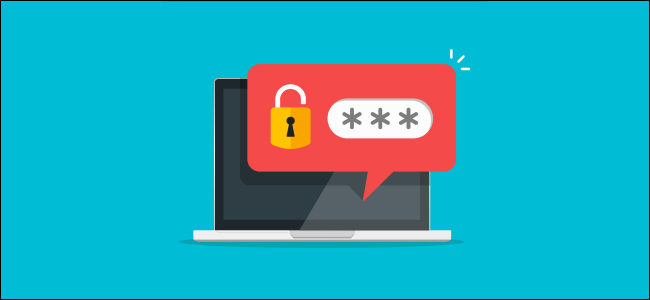
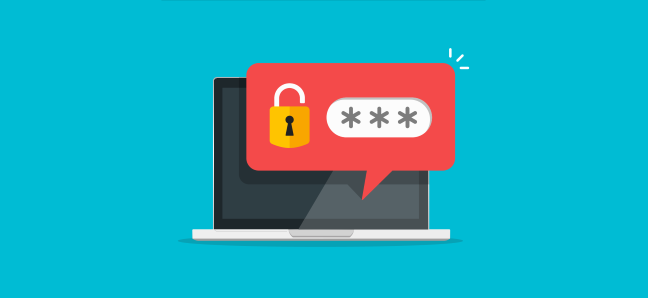
Completed password blog and updated config.yml

diff --git a/blog/Why-Use-Password-Manager/index.html b/blog/Why-Use-Password-Manager/index.html
@@ -23,17 +23,71 @@
     </tbody></table>
     <div id="blog-display">
         <h1 id="blog_title">Why you should REALLY use a password manager.</h1>
-        <img src="https://www.howtogeek.com/wp-content/uploads/2019/11/img_5dcdb2cfe6171.png" style="display:block;margin:0 auto;" class="blog_img">
+        <img src="/images/blog3.png" style="display:block;margin:0 auto;" class="blog_img">
         <p>
             If you were like me, you used the same password for all of your accounts because you can't be bothered to memorize or write down a bunch of different passwords. You probably think why does it matter? I never get hacked.
         </p>
         <p>
-            If you said that to me in person, my reply would be: "You haven't been hacked <i>yet.</i>"
+            If you said that to me in person, my response would be: "You haven't been hacked <i>yet.</i>" Companies get hacked and leak data all the time, <a href="https://en.wikipedia.org/wiki/List_of_data_breaches">even the big ones</a>.
         </p>
         <p>
-            I'll admit though, if you rarely use the internet past the typical big companies like Facebook and Google then the use of a password manager might not be necessary, but for the vast majority a password manager is highly recommended.
+            For those who don't know what a password manager is; it's a software that manages all the credentials you need to login to a site allowing you to keep track of all unique and hard to crack passwords while only having to remember one password.
+            This is all dependent on the fact that <i><b>you pick and use a master password that you have never used before and will never reveal or write down.</b></i> If you stick with a password manager, it should be the last password you'll ever need to remember.
         </p>
-
+        <p>
+            I'll admit though, if you rarely use the internet past the typical big companies like Facebook and Google then the use of a password manager might not be necessary, but for the vast majority a password manager is something I highly recommend. Allow me to illustrate.
+        </p>
+        <p>
+            <img src="/images/blog3.gif" style="display:block;margin:0 auto;" class="blog_img">
+        </p>
+        <p>
+            Lets say Google gets hacked or has its data leaked. You obviously have to change your password for Google and because hackers are smart enough to try your email/password on other websites you have to change the other sites too.
+            Luckily you only use Facebook and Amazon so you change the password to those two accounts and you're perfectly okay.
+        </p>
+        <p>
+            <img src="/images/blog3-1.gif" style="display:block;margin:0 auto;" class="blog_img">
+        </p>
+        <p>
+            Now with more accounts sharing the same password things start to become complicated. If one company gets hacked, you have to change the password of every account in order to make sure all accounts are secure. 
+            Most likely you're going to have a lot more accounts on a lot more websites. Imagine if you had 20 logins with the same password. Imagine if you had 100 accounts. 
+        </p>
+        <p>
+            Not only would it be an incredible pain to change 100 passwords, each added account increases the chances of your password being compromised. 
+            If you also consider that some of the lesser known websites have worse security than Google or Facebook then your chances of being hacked increase tremendously.
+        </p>
+        <p>
+            <img src="/images/blog3-2.gif" style="display:block;margin:0 auto;" class="blog_img">
+        </p>
+        <p>
+            Here is an illustration of a password manager at work. As you can see, the password manager forms a layer of protection from your other passwords so that if one website becomes compromised then your other passwords (including your master password) are safe.
+            The only real risk here is if the password manager itself gets hacked. But with a few simple practices, a password manager is reliably secure.
+        </p>
+        <p>
+            While I've spent a good chunk of this article praising password managers, speaking from experience I have to admit there are some definite inconveniences to using password managers in addition to its benefits.
+        </p>
+        <p>
+            <h2>Pros</h2>
+            <ul>
+                <li>Being able to secure your login credentials while remembering only one password.</li>
+                <li>Protecting your other accounts if one website gets hacked.</li>
+                <li>Being able to store notes relating to your logins like PIN numbers and DOB.</li>
+                <li>Auto fill login credentials is a thing.</li>
+                <li>Able to download the password data and store it offline.</li>
+                <li>Did I mention using stronger passwords with one memorized password?</li>
+            </ul>
+        </p>
+        <p>
+            <h2>Cons</h2>
+            <ul>
+                <li>If you didn't start off using a password manager, you have to change and store all the passwords manually. Some password managers can automate this, but it's unreliable.</li>
+                <li>Sharing and typing passwords is a real pain. If you're not able to copy and paste, you have to type the unique password in manually and with randomized string of characters that can be incredibly annoying.</li>
+                <li>If you're logging in through a phone or computer that's not yours, there are more hoops you have to go through to get your password. You have to download the app or login to the password manager through the website.</li>
+                <li>If you forget your master password (which you really shouldn't), then all your passwords are lost and you have to reset them all. There's no other way to recover your password vault without your master password.</li>
+            </ul>
+        </p>
+        <p>
+            For the average user, a password manager will greatly improve your internet-using life. While it's not a revolutionary change to how we use the internet, if you take the time to set it up it will only benefit you from there on out.
+        </p>
         </div>
     </div>
     <div id="footer_blog">

diff --git a/blog/Is-WordPress-Bad/index.html b/blog/Is-WordPress-Bad/index.html
@@ -26,7 +26,7 @@
         <h2 id="blog_sub_title">WordPress is one of the most hacked websites on the internet. Does that mean it's bad? (The short answer is no.)</h2>
         <img src="https://mageewp.com/wp-content/uploads/2015/07/wordpress-logo-680x400.png" style="display:block;margin:0 auto;" class="blog_img">
         <div id="blog">
-            <p><a href="https://www.zdnet.com/article/wordpress-accounted-for-90-percent-of-all-hacked-cms-sites-in-2018/">In 2018, 90% of all hacked CMS websites was using WordPress.</a> 
+            <p><a href="/images/blog2.png">In 2018, 90% of all hacked CMS websites was using WordPress.</a> 
                 When I tell people that WordPress websites are often hacked many first assume that WordPress is a bad platform to use, which I'm here to challenge.
             </p>
             <p>

diff --git a/blog/What-Is-A-Domain/index.html b/blog/What-Is-A-Domain/index.html
@@ -22,7 +22,7 @@
         </tr>
     </tbody></table>
     <div id="blog-display">
-        <img src="https://cdn.searchenginejournal.com/wp-content/uploads/2018/10/shutterstock_781493554-760x400.png" class="blog_img">
+        <img src="/images/blog1.png" class="blog_img">
         <h1 id="blog_title">What is a domain?</h1>
         <h2 id="blog_sub_title">Domains explained and common questions answered.</h2>
         <div id="blog">
